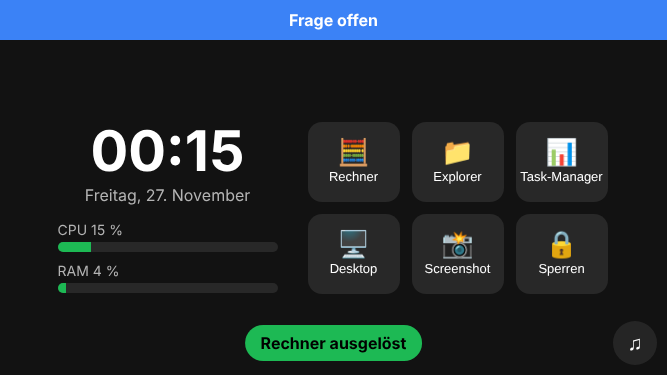
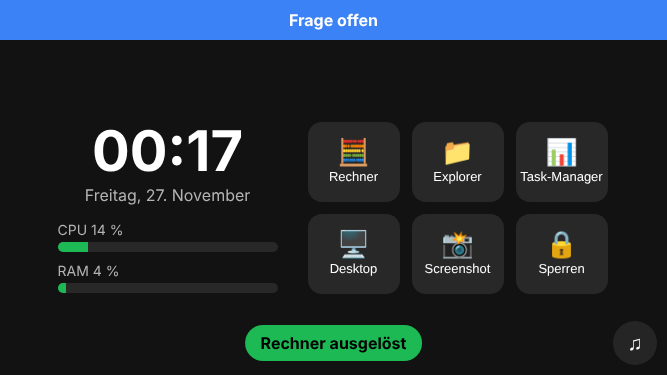
Version in der Seite und /log zum Nachlesen der Servermeldungen
Claude-Session: https://claude.ai/code/session_01S4HE7ySj582LLWDPPUyWDa

Changed region(s): [[0.1199, 0.352, 0.3598, 0.4693], [0.1499, 0.5867, 0.1799, 0.6453], [0.1199, 0.6453, 0.1499, 0.6747]]

diff --git a/tests/ui.test.js b/tests/ui.test.js
@@ -21,7 +21,7 @@ const wait = (ms) => new Promise((r) => setTimeout(r, ms));
   const ok = (name) => console.log('ok  -', name);
   try {
     await page.goto(URL);
-    await page.waitForFunction(() => document.getElementById('status').textContent === 'Verbunden');
+    await page.waitForFunction(() => document.getElementById('status').textContent.startsWith('Verbunden'));
     await page.waitForFunction(() => document.getElementById('titel').textContent === 'Testlied Eins');
     ok('verbindet und zeigt Titel');
 
@@ -51,6 +51,10 @@ const wait = (ms) => new Promise((r) => setTimeout(r, ms));
     await page.reload();
     await page.waitForFunction(() => document.getElementById('laut').value === '80');
     ok('Lautstaerke wird gesetzt und gemerkt');
+
+    const protokoll = await (await page.request.get(`${URL}/log`)).text();
+    assert.ok(protokoll.includes('laeuft auf Port'), 'Protokoll leer');
+    ok('/log zeigt das Server-Protokoll');
 
     await page.request.post(`${URL}/claude`, { data: { status: 'arbeitet' } });
     await page.waitForFunction(() => document.getElementById('claude').textContent.includes('arbeitet'));
@@ -91,7 +95,7 @@ const wait = (ms) => new Promise((r) => setTimeout(r, ms));
       env: { ...process.env, PHONEBOX_TEST: '1', PHONEBOX_PORT: String(PORT) },
       stdio: 'inherit',
     });
-    await page.waitForFunction(() => document.getElementById('status').textContent === 'Verbunden', null, { timeout: 15000 });
+    await page.waitForFunction(() => document.getElementById('status').textContent.startsWith('Verbunden'), null, { timeout: 15000 });
     ok('verbindet sich nach Neustart von selbst neu');
     neu.kill();
     console.log('Alle Tests bestanden');

diff --git a/index.html b/index.html
@@ -116,6 +116,7 @@
     };
     ws.onmessage = function (e) {
       var d = JSON.parse(e.data);
+      el("status").textContent = "Verbunden" + (d.version ? " \u00B7 " + d.version : "");
       el("titel").textContent = d.titel || "-";
       el("kuenstler").textContent = d.kuenstler || "";
       el("play").innerHTML = d.spielt ? "&#9208;" : "&#9654;";

diff --git a/server.py b/server.py
@@ -9,14 +9,17 @@ import psutil
 import uvicorn
 from fastapi import FastAPI, WebSocket, WebSocketDisconnect
 from starlette.websockets import WebSocketDisconnected
-from fastapi.responses import FileResponse, Response
+from fastapi.responses import FileResponse, PlainTextResponse, Response
 from pydantic import BaseModel
 
 import medien as medien_modul
+import protokoll
 import shortcuts
+from protokoll import log
 
 ORDNER = Path(__file__).parent
 TEST = os.environ.get("PHONEBOX_TEST") == "1"  # Fake-Daten statt Windows/Spotify
+VERSION = "v5 (Cover-Diagnose)"
 PORT = int(os.environ.get("PHONEBOX_PORT", "8000"))
 
 medien = medien_modul.erstellen(TEST)
@@ -48,6 +51,7 @@ def shortcuts_neu_laden():
 
 def nachricht_bauen():
     return json.dumps({
+        "version": VERSION,
         **zustand["medien"],
         "claude": zustand["claude"],
         "system": zustand["system"],
@@ -94,7 +98,7 @@ async def shortcut_ausloesen(befehl):
         try:
             await asyncio.to_thread(shortcuts.ausfuehren, eintrag)
         except Exception as fehler:
-            print("Shortcut fehlgeschlagen:", eintrag["name"], fehler)
+            log("Shortcut fehlgeschlagen:", eintrag["name"], fehler)
             ok = False
     zustand["shortcut"] = {"nr": zustand["shortcut"]["nr"] + 1, "name": eintrag["name"], "ok": ok}
     await an_alle_senden()
@@ -105,7 +109,7 @@ async def schleife():
         try:
             await aktualisieren()
         except Exception as fehler:  # die Schleife darf nie sterben
-            print("Aktualisieren fehlgeschlagen:", repr(fehler))
+            log("Aktualisieren fehlgeschlagen:", repr(fehler))
         await asyncio.sleep(1)
 
 
@@ -122,6 +126,12 @@ app = FastAPI(lifespan=lebenszyklus)
 @app.get("/")
 async def startseite():
     return FileResponse(ORDNER / "index.html")
+
+
+@app.get("/log")
+async def protokoll_zeigen():
+    """Die letzten Meldungen des Servers, zum Nachlesen im Browser."""
+    return PlainTextResponse("Phonebox " + VERSION + "\n\n" + "\n".join(protokoll.zeilen))
 
 
 @app.get("/cover")
@@ -161,12 +171,12 @@ async def verbindung(websocket: WebSocket):
             try:
                 await asyncio.wait_for(medien.befehl(befehl), timeout=5)
             except Exception as fehler:
-                print("Befehl fehlgeschlagen:", befehl, repr(fehler))
+                log("Befehl fehlgeschlagen:", befehl, repr(fehler))
             await asyncio.sleep(0.3)  # Spotify kurz Zeit geben, dann sofort aktualisieren
             try:
                 await aktualisieren()
             except Exception as fehler:
-                print("Aktualisieren fehlgeschlagen:", repr(fehler))
+                log("Aktualisieren fehlgeschlagen:", repr(fehler))
     except (WebSocketDisconnect, WebSocketDisconnected):
         pass  # iPhone hat die Verbindung geschlossen (z. B. Seite neu geladen)
     finally:
@@ -174,6 +184,6 @@ async def verbindung(websocket: WebSocket):
 
 
 if __name__ == "__main__":
-    print(f"Phonebox-Server laeuft auf Port {PORT}" + (" (Testmodus)" if TEST else ""))
+    log(f"Phonebox-Server {VERSION} laeuft auf Port {PORT}" + (" (Testmodus)" if TEST else ""))
     # log_config=None, damit der Server auch ohne Konsolenfenster (pythonw) laeuft
     uvicorn.run(app, host="0.0.0.0", port=PORT, log_config=None)

diff --git a/medien.py b/medien.py
@@ -7,6 +7,8 @@ Oberflaeche auch ohne Windows und Spotify testen lassen (PHONEBOX_TEST=1).
 import asyncio
 import hashlib
 
+from protokoll import log
+
 
 def erstellen(test: bool):
     return TestMedien() if test else WindowsMedien()
@@ -83,7 +85,7 @@ class WindowsMedien:
         sitzung = await self._sitzung()
         if not getattr(self, "_start_gemeldet", False):
             self._start_gemeldet = True
-            print("Medien-Code mit Cover-Hintergrundladen aktiv")
+            log("Medien-Code mit Cover-Hintergrundladen aktiv")
         if sitzung is None:
             return {
                 "spielt": False,
@@ -97,7 +99,7 @@ class WindowsMedien:
 
         schluessel = (infos.title, infos.artist)
         if schluessel != self._cover_fuer:
-            print(f"Cover: neues Lied {schluessel[0]!r}, Thumbnail vorhanden: {infos.thumbnail is not None}")
+            log(f"Cover: neues Lied {schluessel[0]!r}, Thumbnail vorhanden: {infos.thumbnail is not None}")
             self._cover_fuer = schluessel
             self._cover = None
             self._cover_versuche = 0
@@ -113,7 +115,7 @@ class WindowsMedien:
             and (self._cover_task is None or self._cover_task.done())
         ):
             self._cover_versuche += 1
-            print(f"Cover: Versuch {self._cover_versuche} fuer {schluessel[0]!r}")
+            log(f"Cover: Versuch {self._cover_versuche} fuer {schluessel[0]!r}")
             self._cover_task = asyncio.create_task(self._cover_holen(schluessel, infos.thumbnail))
         self._cover_id = (
             hashlib.md5(repr(schluessel).encode()).hexdigest()[:8] if self._cover else ""
@@ -151,14 +153,14 @@ class WindowsMedien:
         try:
             daten = await asyncio.wait_for(self._cover_laden(thumbnail), timeout=5)
         except asyncio.TimeoutError:
-            print("Cover: Zeitueberschreitung beim Lesen")
+            log("Cover: Zeitueberschreitung beim Lesen")
             return
         if not daten:
-            print("Cover: keine Daten erhalten")
+            log("Cover: keine Daten erhalten")
         elif schluessel != self._cover_fuer:
-            print("Cover: Lied hat inzwischen gewechselt, verworfen")
+            log("Cover: Lied hat inzwischen gewechselt, verworfen")
         else:
-            print(f"Cover: {len(daten)} Bytes geladen")
+            log(f"Cover: {len(daten)} Bytes geladen")
             self._cover = daten
 
     async def _cover_laden(self, thumbnail):
@@ -174,7 +176,7 @@ class WindowsMedien:
             DataReader.from_buffer(puffer).read_bytes(daten)
             return bytes(daten)
         except Exception as fehler:  # Cover ist nur ein Extra, nie den Server stoppen
-            print("Cover konnte nicht gelesen werden:", fehler)
+            log("Cover konnte nicht gelesen werden:", fehler)
             return None
 
     def _endpunkt(self):
@@ -193,7 +195,7 @@ class WindowsMedien:
         except Exception as fehler:
             if not self._laut_fehler_gezeigt:  # nur einmal melden, nicht jede Sekunde
                 self._laut_fehler_gezeigt = True
-                print("Lautstaerke nicht verfuegbar:", repr(fehler))
+                log("Lautstaerke nicht verfuegbar:", repr(fehler))
             return None
 
     def _laut_lesen(self):

diff --git a/protokoll.py b/protokoll.py
@@ -1,0 +1,15 @@
+"""Kleines Protokoll: Meldungen erscheinen im Konsolenfenster UND unter /log im Browser.
+So lassen sich Fehler auch lesen, wenn der Server unsichtbar (pythonw) laeuft."""
+import time
+from collections import deque
+
+zeilen = deque(maxlen=300)
+
+
+def log(*teile):
+    text = time.strftime("%H:%M:%S ") + " ".join(str(t) for t in teile)
+    zeilen.append(text)
+    try:
+        print(text)
+    except Exception:
+        pass
